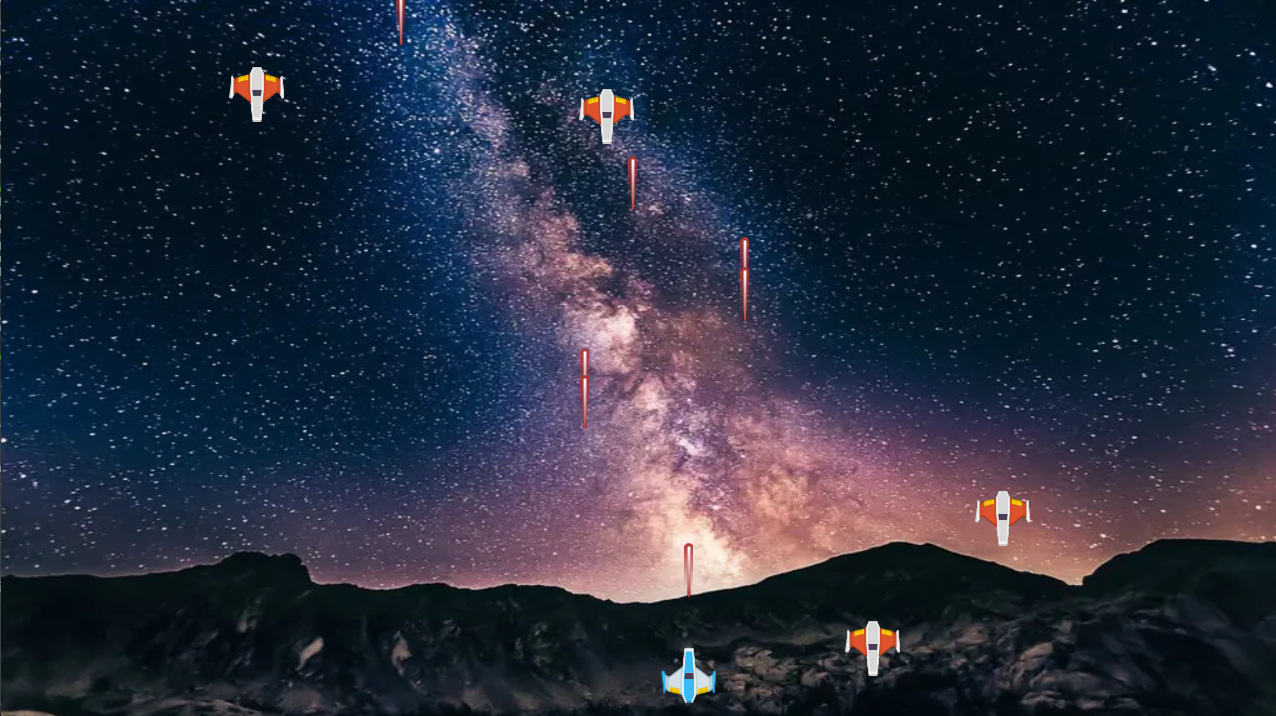
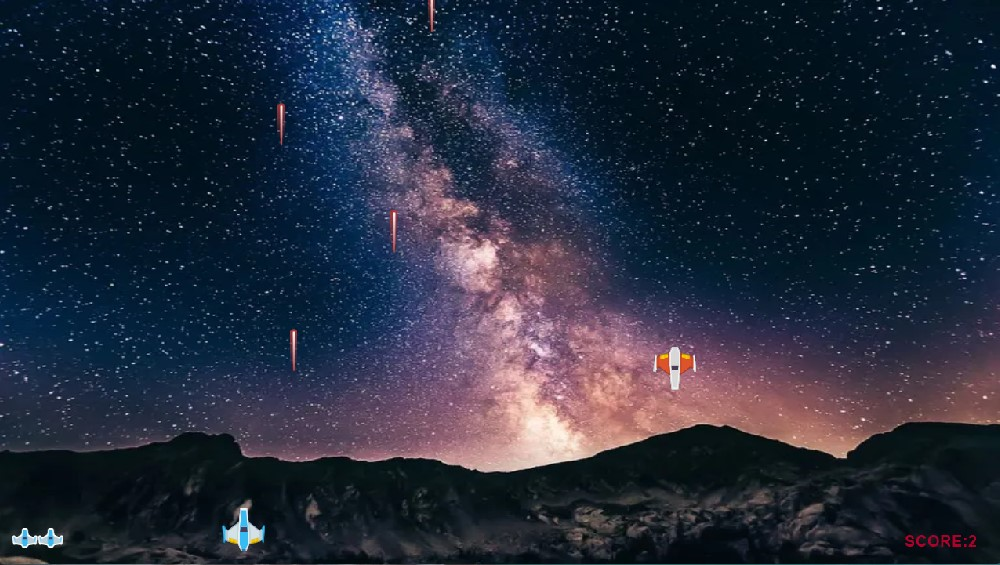
09252023:0019

diff --git a/14/enemy.py b/14/enemy.py
@@ -13,7 +13,7 @@ class Enemy(arcade.Sprite):
 
     def move(self):
         self.center_y -= self.speed
-        self.speed += 0.1
+        self.speed += 0.01
 
     def destruction(self):
         arcade.play_sound(self.destruction_sound)

diff --git a/14/README.md b/14/README.md
@@ -6,3 +6,4 @@
 | ----------- | ----------- |
 |Interstellar|a Mini Game on progress |
 ![concentric](Interstellar.jpg)
+![concentric](GameOver_Screen.jpg)
